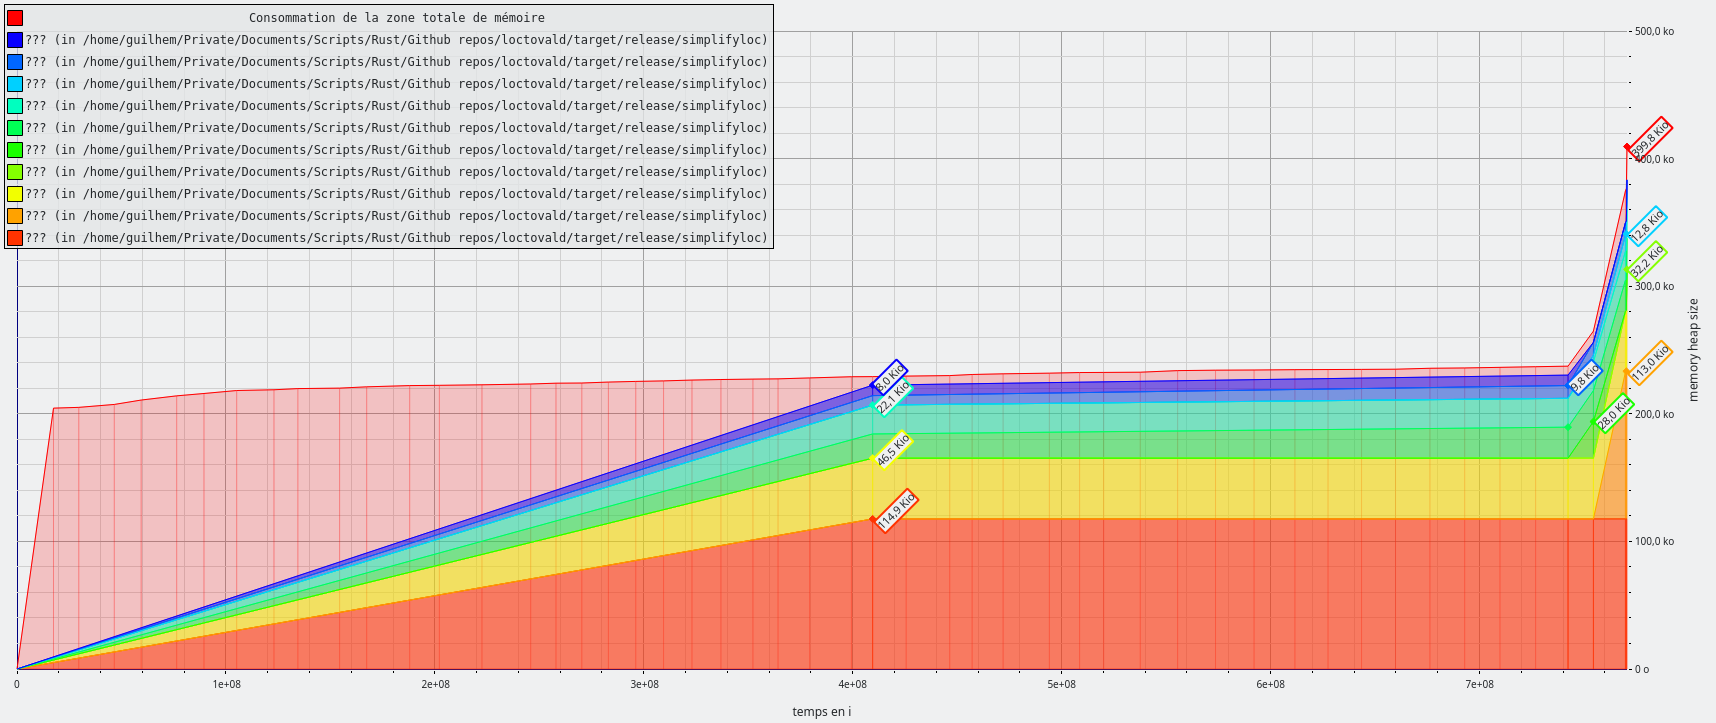
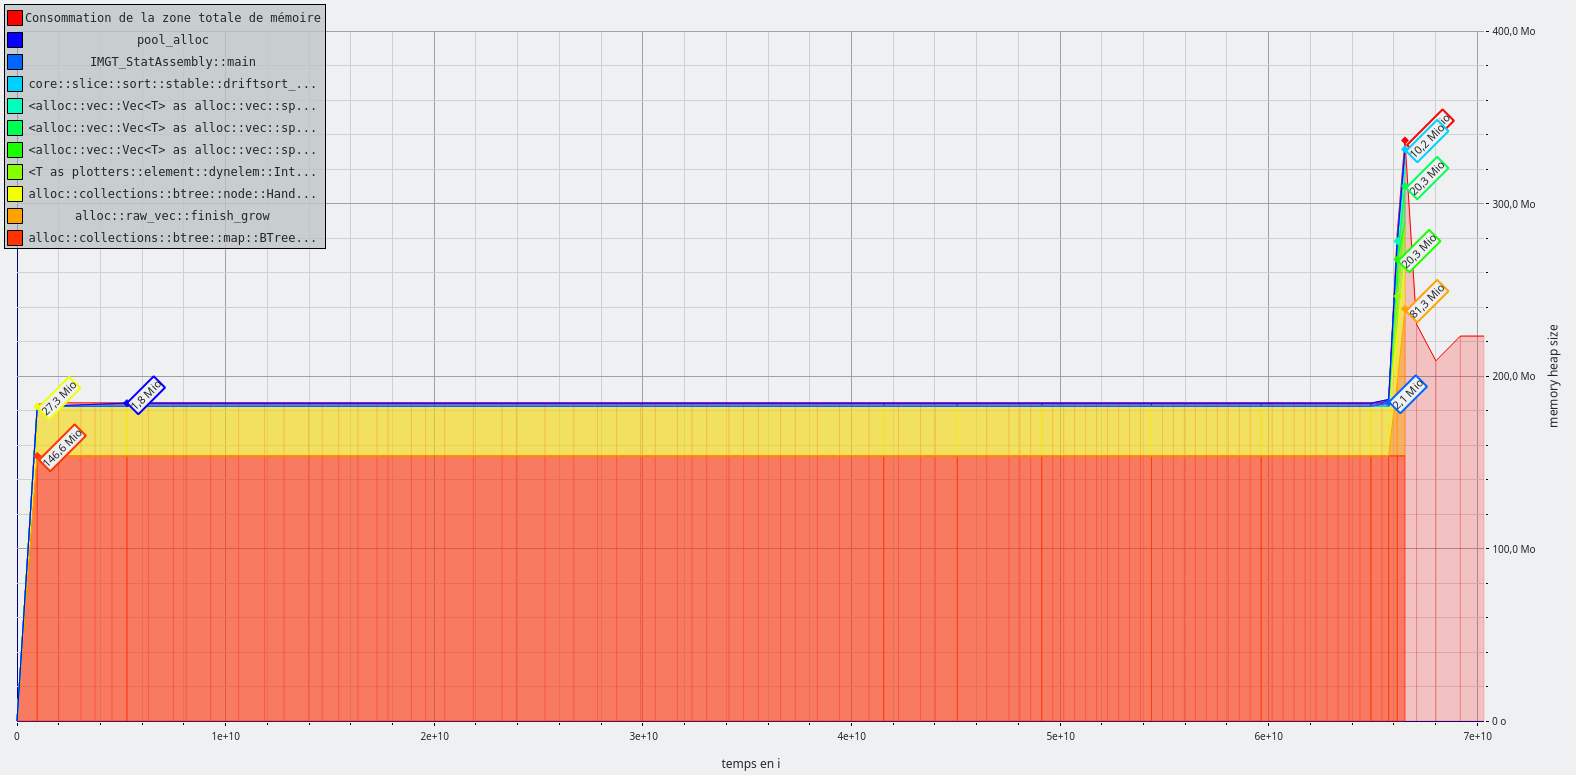
addition

diff --git a/src/main.rs b/src/main.rs
@@ -11,8 +11,8 @@ use plotters::series::{Histogram, LineSeries};
 use plotters::style::*;
 use plotters::{self, coord};
 use rust_htslib::bam::ext::BamRecordExtensions;
-use rust_htslib::bam::{self, Read};
-use serde::Deserialize;
+use rust_htslib::bam::{self, IndexedReader, Read};
+use serde::{Deserialize, Serialize};
 use std::{
     cmp::{max, min},
     collections::BTreeMap,
@@ -52,9 +52,9 @@ struct Args {
     ///Species
     #[arg(short, long)]
     species: String,
-    ///Assembly file (FASTA)
+    ///Gene location (csv file)
     #[arg(short, long)]
-    assembly: PathBuf,
+    geneloc: Option<PathBuf>,
     ///Output directory
     #[arg(short, long)]
     outdir: PathBuf,
@@ -87,6 +87,26 @@ enum Haplotype {
     Alternate,
 }
 #[derive(Clone, Debug, PartialEq, Eq, Deserialize)]
+struct GeneInfos {
+    gene: String,
+    chromosome: String,
+    strand: bool,
+    start: i64,
+    end: i64,
+}
+#[derive(Clone, Debug, PartialEq, Eq, Serialize)]
+struct GeneInfosFinish {
+    gene: String,
+    chromosome: String,
+    strand: bool,
+    start: i64,
+    end: i64,
+    reads: usize,
+    reads100: usize,
+    reads100m: usize,
+    coverage10x: usize
+}
+#[derive(Clone, Debug, PartialEq, Eq, Deserialize)]
 struct LocusInfos {
     locus: Locus,
     haplotype: Haplotype,
@@ -94,7 +114,7 @@ struct LocusInfos {
     start: i64,
     end: i64,
 }
-#[derive(Debug, Clone, PartialEq, Eq)]
+#[derive(Debug, Clone, PartialEq, Eq, Serialize)]
 struct HashMapinfo {
     map60: i64,
     map1: i64,
@@ -211,16 +231,16 @@ fn main() {
             let p = p.unwrap();
             let newrange =
                 max(p.reference_start(), loci.start)..min(loci.end + 1, p.reference_end());
-            let overlaprange =
-                max(p.reference_start(), loci.start + 1)..min(loci.end, p.reference_end()); //Remove 1 because does not overlap on borders
-            let mut matched = p.aligned_pairs_match().unwrap().map(|[a, b]| a..=b);
-            let mut aligned = p.aligned_pairs().map(|[a, b]| a..=b);
             if p.is_secondary() {
                 newrange.for_each(|i| {
                     pos.get_mut(&i).unwrap().secondary += 1;
                 });
                 continue;
             }
+            let overlaprange =
+                max(p.reference_start()+1, loci.start)..min(loci.end + 1, p.reference_end() - 1); //Remove 1 because does not overlap on borders
+            let mut matched = p.aligned_pairs_match().expect("No CIGAR = given.").map(|[a, b]| a..=b);
+            let mut aligned = p.aligned_pairs().map(|[a, b]| a..=b);
             newrange.for_each(|i| {
                 match p.mapq() {
                     0 => pos.get_mut(&i).unwrap().map0 += 1,
@@ -232,8 +252,9 @@ fn main() {
                         String::from_utf8_lossy(p.qname())
                     ),
                 };
-                if i % 455 == 0 { //Check every 455 nt
-                    if let Some(d) = p.aligned_pairs().find(|p| p[1]==i) {
+                if i % 455 == 0 {
+                    //Check every 455 nt
+                    if let Some(d) = p.aligned_pairs().find(|p| p[1] == i) {
                         let index = d[0] as usize;
                         pos.get_mut(&i).unwrap().qual += *p.qual().get(index).unwrap() as usize;
                     }
@@ -256,7 +277,91 @@ fn main() {
         readgraph(outputdir, &loci, &pos, &args);
         // Second graph with mismatches
         mismatchgraph(outputdir, &loci, &pos, &args);
+        //Create CSV from HashMap
+        createcsv(outputdir, &loci, &pos, &args);
+        //Create gene CSV
+        if args.geneloc.is_some() {
+            genelist(outputdir,&loci,&reader.rc_records(),&args);
+        }
     }
+}
+fn genelist(outputdir: &std::path::Path,
+    loci: &LocusInfos,
+    records: &bam::RcRecords<'_, IndexedReader>,
+    args: &Args) {
+        let outputfile = outputdir.join(givename(
+            &args.species, &loci.locus,&loci.contig,"geneanalysis.csv"
+        ));
+        let mut csv = csv::ReaderBuilder::new()
+        .has_headers(true)
+        .comment(Some(b'#'))
+        .delimiter(b'\t')
+        .from_path(&args.locuspos)
+        .unwrap();
+    let mut genes: Vec<GeneInfos> = Vec::new();
+    for record in csv.deserialize() {
+        let record = record.expect("Invalid CSV format, waiting gene\tcontig\tstrand\tstart\tend");
+        genes.push(record);
+    }
+    if genes.is_empty() {
+        panic!("Invalid CSV format, waiting locus\thaplotype (Primary or Alternate)\tcontig\tstart\tend");
+    }
+    let mut finale: Vec<GeneInfosFinish> = Vec::with_capacity(genes.len());
+    for mut gene in genes {
+        let (mut reads, mut reads100,mut reads100m, mut coverage10x) = (0,0,0,0);
+        if gene.start > gene.end {
+            (gene.end,gene.start) = (gene.start,gene.end) //Swap position
+        }
+        let range = gene.start..=gene.end;
+        let records = records.filter_map(Result::ok).filter(|p| { 
+            range.contains(&(p.reference_start()+1)) || range.contains(&(p.reference_end()+1))
+        });
+        todo!("Continue here");
+        let elem = GeneInfosFinish {
+            gene: gene.gene,
+            chromosome: gene.chromosome,
+            strand: gene.strand,
+            start: gene.start,
+            end: gene.end,
+            reads,
+            reads100,
+            reads100m,
+            coverage10x
+        };
+        finale.push(elem);
+    }
+    let mut csv = csv::WriterBuilder::new()
+        .has_headers(true)
+        .comment(Some(b'#'))
+        .delimiter(b'\t')
+        .from_path(&outputdir)
+        .unwrap();
+    for gene in finale {
+        csv.serialize(csv).unwrap();
+    }
+    csv.flush().unwrap();
+    println!("Gene analysis has been saved to {}", outputfile.display());
+    }
+fn givename(species: &str, locus: &Locus, contig: &str, suffix: &str) -> String {
+    format!("{}_{}_{}_{}",species,locus,contig,suffix)
+}
+fn createcsv(outputdir: &std::path::Path,
+    loci: &LocusInfos,
+    pos: &BTreeMap<i64, HashMapinfo>,
+    args: &Args,
+) {
+    let outputfile = outputdir.join(givename(
+        &args.species, &loci.locus,&loci.contig,"positionresult.csv"
+    ));
+    let outputfile = outputfile.as_path();
+    let mut csv = csv::WriterBuilder::new().comment(Some(b'#')).flexible(false).has_headers(false).delimiter(b'\t').from_path(outputfile).unwrap();
+    csv.write_record(["Position","map60","map1","map0","overlaps","secondary","mismatches","misalign","qual"]).unwrap();
+    for (pos,record) in pos.iter() {
+        csv.write_field(format!("{}",pos)).unwrap();
+        csv.serialize(record).unwrap();
+    }
+    csv.flush().unwrap();
+    println!("CSV analysis has been saved to {}", outputfile.display());
 }
 fn mismatchgraph(
     outputdir: &std::path::Path,
@@ -264,9 +369,8 @@ fn mismatchgraph(
     pos: &BTreeMap<i64, HashMapinfo>,
     args: &Args,
 ) {
-    let outputfile = outputdir.join(format!(
-        "{}_{}_mismatchresult.png",
-        &args.species, &loci.locus
+    let outputfile = outputdir.join(givename(
+        &args.species, &loci.locus,&loci.contig,"mismatchresult.png"
     ));
     let outputfile = outputfile.as_path();
     let root = BitMapBackend::new(outputfile, (1200, 600)).into_drawing_area();
@@ -331,7 +435,20 @@ fn mismatchgraph(
     //let mut second = chart.set_secondary_coord(loci.start..loci.end, 0..max);
     secondary
         .draw_secondary_series(LineSeries::new(
-            pos.iter().filter_map(|p| if p.1.qual > 0 { Some((*p.0, p.1.qual / std::convert::TryInto::<usize>::try_into(p.1.map0 + p.1.map1 + p.1.map60).unwrap())) } else { None }),
+            pos.iter().filter_map(|p| {
+                if p.1.qual > 0 {
+                    Some((
+                        *p.0,
+                        p.1.qual
+                            / std::convert::TryInto::<usize>::try_into(
+                                p.1.map0 + p.1.map1 + p.1.map60,
+                            )
+                            .unwrap(),
+                    ))
+                } else {
+                    None
+                }
+            }),
             full_palette::BLACK.mix(0.4),
         ))
         .unwrap()
@@ -361,7 +478,9 @@ fn readgraph(
     args: &Args,
 ) {
     let max = pos.values().map(|max| max.getmaxvalue()).max().unwrap() + 5;
-    let outputfile = outputdir.join(format!("{}_{}_readresult.png", &args.species, &loci.locus));
+    let outputfile = outputdir.join(givename(
+        &args.species, &loci.locus,&loci.contig,"readresult.png"
+    ));
     let outputfile = outputfile.as_path();
     let root = BitMapBackend::new(outputfile, (1200, 600)).into_drawing_area();
     let _ = root.fill(&plotters::prelude::WHITE);

diff --git a/README.md b/README.md
@@ -3,18 +3,19 @@ IMGT/StatAssembly uses BAM file to assess the quality of the assembly, including
 <p align="middle">
 <img src = "images/rust.png" width ="50" />
 </p>
-The script was made for <a href="//www.imgt.org">IMGT team</a>.
+The script was made by <a href="//www.imgt.org">IMGT team</a>.
 <p align="middle">
 <img src= "images/logo_imgt.png" width ="150" />
 </p>
 
 ## Script input files and data
-* The BAM file from analysis, the presence of a cigar with `=` is compulsory. If absent, it can be generated using samtools.
+* The BAM file from analysis, the presence of a cigar with `=`/`X` (match; substitution) is compulsory.
 * A CSV file with the following information, separated by a tabular:
 ```
 Locus Haplotype contig  start end
 ```
 Locus must be IGH,IGK,IGL,TRA,TRB or TRG. Haplotype must be primary or alternate (case sensitive). Contig, start and end should match SAM regions.
+Example in test files.
 
 ## How to install
 
@@ -28,7 +29,9 @@ to access the help.
 
 ### Source code
 
-Do a git clone and then `cargo build --release` to compile the software.
+- [ ] Install rust if not installed.
+- [ ] Check Rust version, should be >= 1.81.
+- [ ] Do a git clone and then `cargo build --release` to compile the software.
 
 ## Output
 
